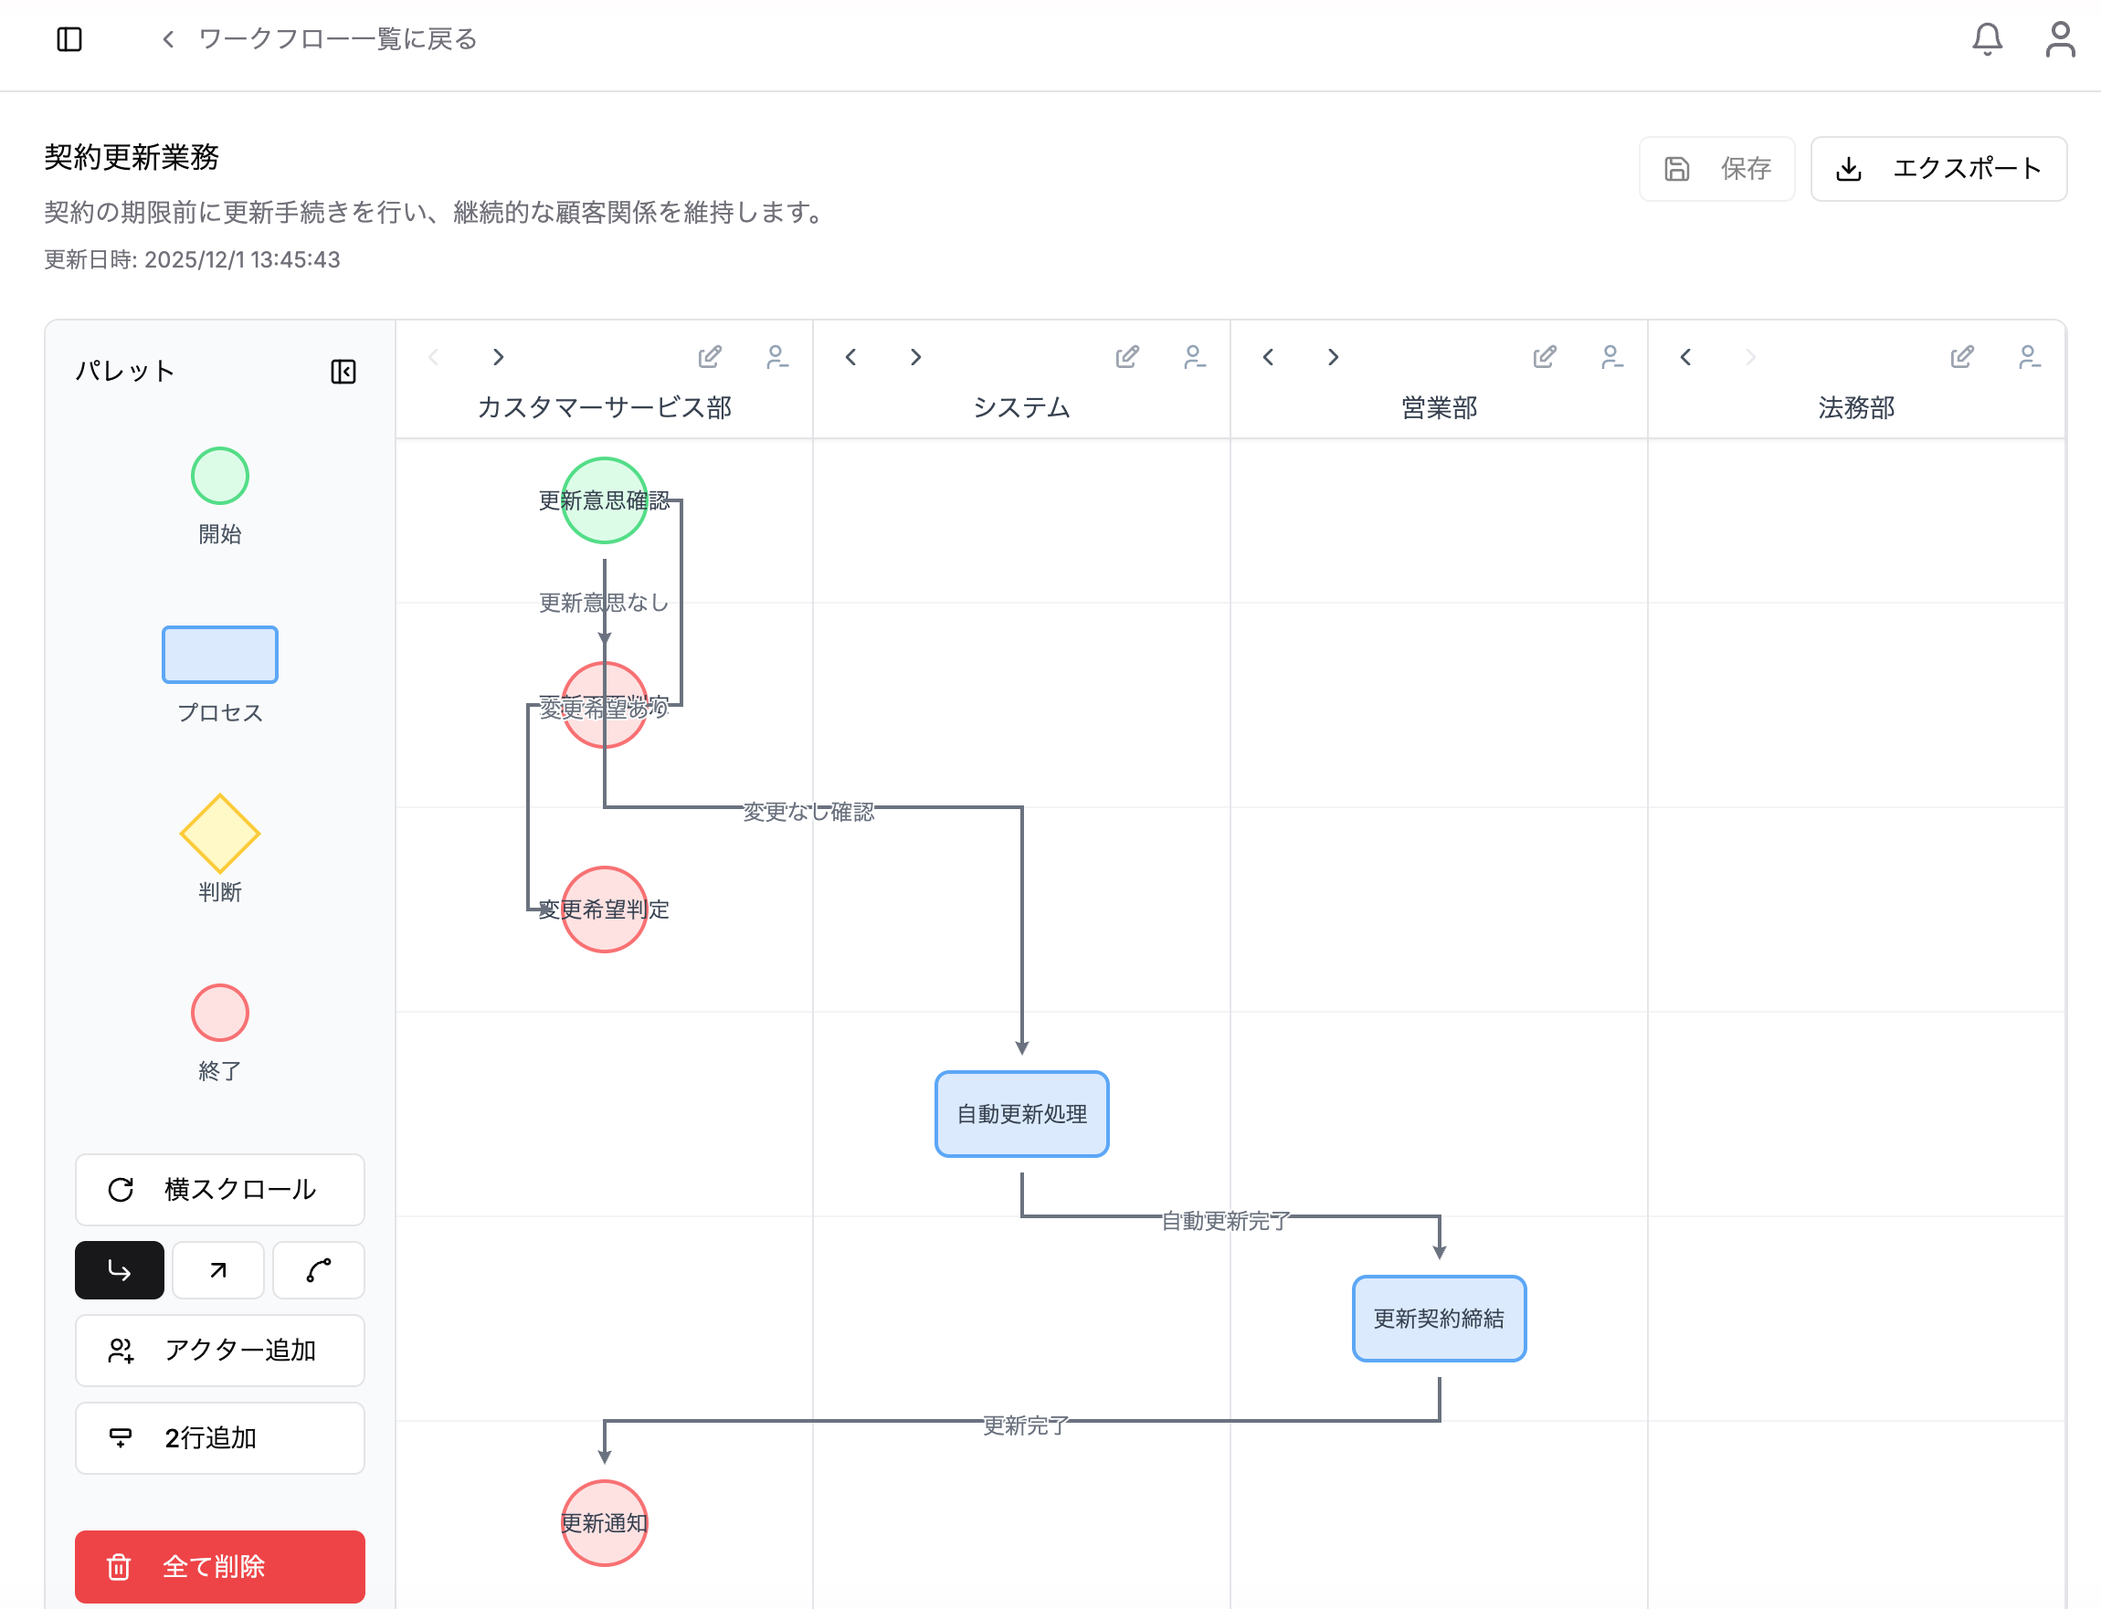
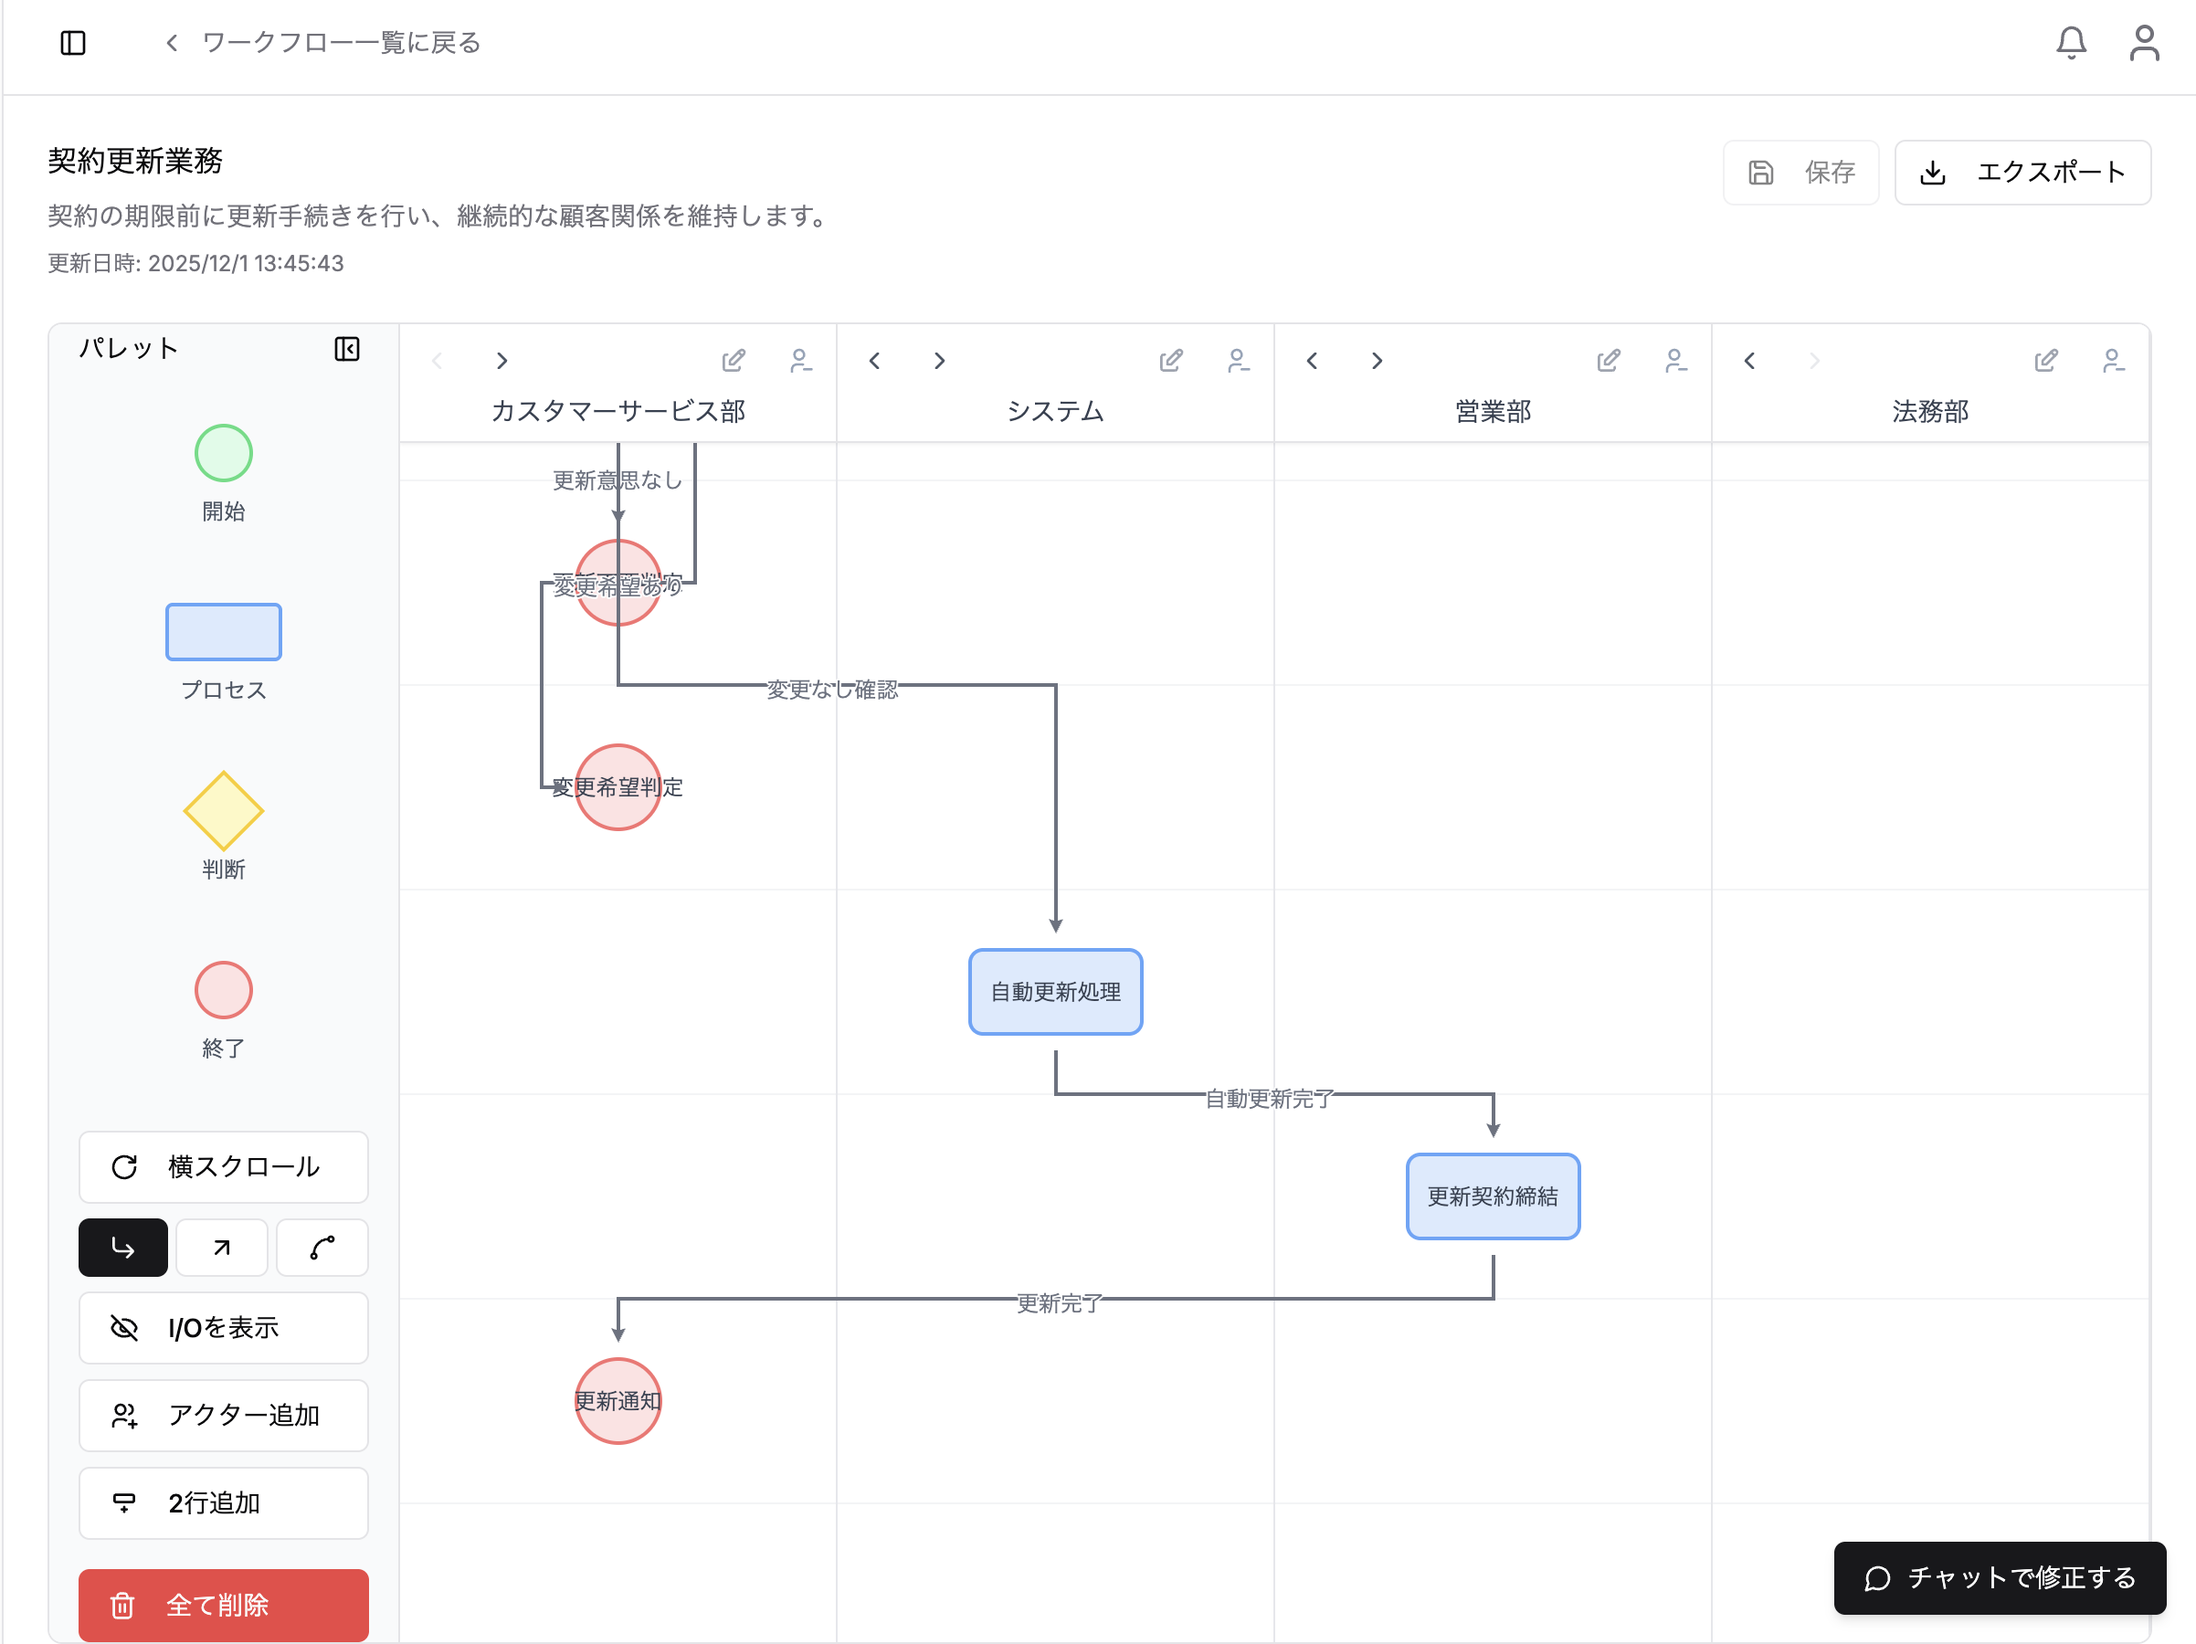
ワークフローの入出力を可視化できる機能の解説を入れた

diff --git a/src/content/docs/guides/workflow-management.md b/src/content/docs/guides/workflow-management.md
@@ -1,9 +1,11 @@
 ---
-title: ③-3 ワークフロー管理
-description: ワークフローに関する説明
+title: ③-3 ワークフローを確認・活用する
+description: 業務から自動生成されたワークフローの確認・可視化・編集
 ---
 
-### ワークフローの作成
+> **[③-2 業務を整理する](/guides/business-management/) の「ワークフロー生成」で作られたワークフローを、ここで確認・活用します。** （③-4 クイックウィン分析と並ぶ、業務一覧からの分岐先の一つです。順序の依存はありません。）
+
+## ワークフローの作成
 
 **手動作成：**
 
@@ -26,7 +28,7 @@ description: ワークフローに関する説明
 
 > **💡 ヒント：** 業務情報が詳細であるほど、精度の高いワークフローが生成されます。
 
-### ワークフローの編集・削除
+## ワークフローの編集・削除
 
 **編集：**
 
@@ -44,7 +46,7 @@ description: ワークフローに関する説明
 ![詳細ページ](../../../../public/workflows/workflow-edit-detail.png)
 3. 確認ダイアログで「削除」を選択
 
-### ワークフローの可視化
+## ワークフローの可視化
 
 1. ワークフローを選択
 ![ワークフローを選択](../../../../public/workflows/select-workflow.png)
@@ -57,3 +59,8 @@ description: ワークフローに関する説明
 - **レーン**: 担当者・部署ごとに分離
 - **アクティビティ**: 各タスクのステップ
 - **フロー**: タスク間の流れと依存関係
+
+### 入力データと出力データの可視化
+各フローにおける入出力のデータを可視化できます。
+![ワークフローの入出力を可視化](../../../../public/workflows/workflow-detail-io.png)
+左側の *(I/O)* ボタンをクリックする各ワークフロの入出力データを確認できます。
